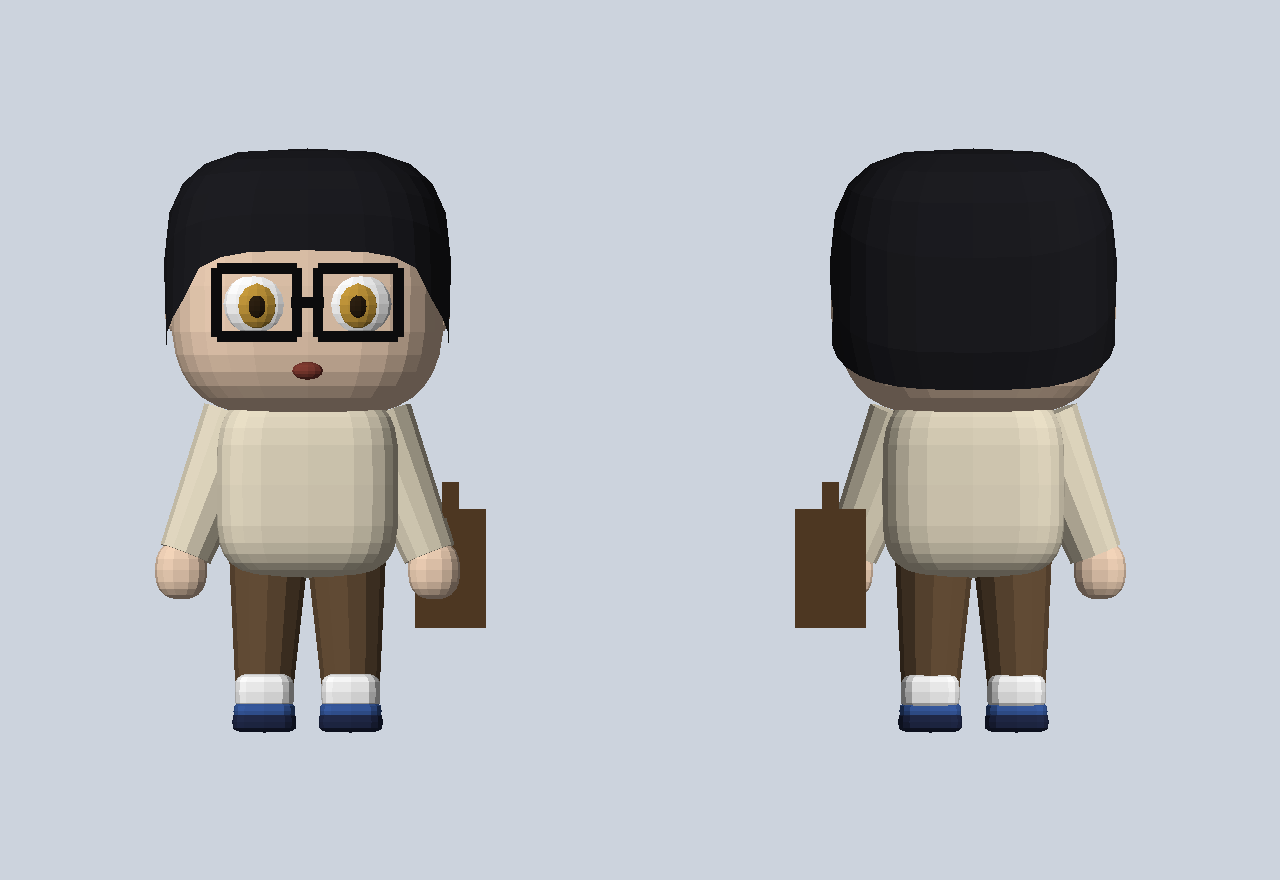
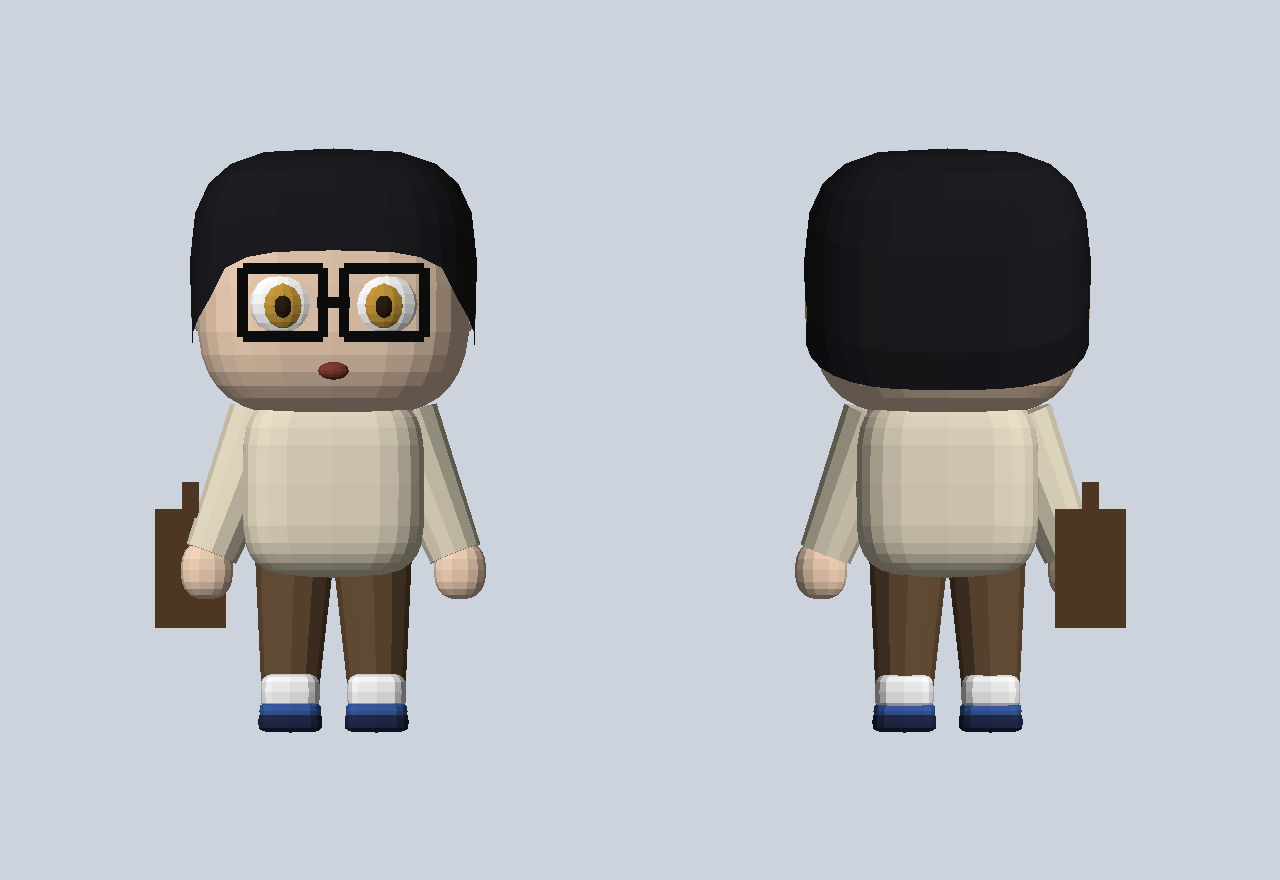
fix(npc): briefcase giao_vien sang -X (tay phai), update verify sample + preview

Changed region(s): [[0.0938, 0.1534, 0.4062, 0.8284], [0.5938, 0.1534, 0.9062, 0.8284]]

diff --git a/chibi-model/generate_npcs.py b/chibi-model/generate_npcs.py
@@ -394,9 +394,9 @@ def build_giao_vien():
         _add(objs, "shoe_sole", "shoe_navy", super_shape((x, -0.025, 0.035), 0.108, 0.148, 0.035, 0.45, 0.45, 16, 10))
         _add(objs, "shoe_midsole", "shoe_blue", super_shape((x, -0.025, 0.072), 0.104, 0.144, 0.030, 0.45, 0.45, 16, 10))
         _add(objs, "shoe_upper", "shoe_white", super_shape((x, -0.015, 0.135), 0.100, 0.140, 0.065, 0.5, 0.5, 16, 10))
-    # briefcase right side
-    _add(objs, "briefcase", "briefcase_brown", box((0.48, 0.10, 0.55), 0.12, 0.10, 0.20), smooth=False)
-    _add(objs, "briefcase_handle", "briefcase_brown", box((0.48, -0.02, 0.78), 0.03, 0.03, 0.06), smooth=False)
+    # briefcase right side (-X is the character's right: faces -Y, right = fwd x up)
+    _add(objs, "briefcase", "briefcase_brown", box((-0.48, 0.10, 0.55), 0.12, 0.10, 0.20), smooth=False)
+    _add(objs, "briefcase_handle", "briefcase_brown", box((-0.48, -0.02, 0.78), 0.03, 0.03, 0.06), smooth=False)
     return objs, mats
 
 def build_hoai_niem():

diff --git a/chibi-model/verify_npcs.py b/chibi-model/verify_npcs.py
@@ -117,7 +117,7 @@ COLOR_CHECKS = [
     ("giao_vien", "shirt cream",   0.000, 0.95, (235, 225, 200), "front"),
     ("giao_vien", "pants brown",   0.150, 0.40, (110, 85, 60),   "front"),
     ("giao_vien", "glasses black", 0.305, 1.445, (14, 14, 16),   "front"),
-    ("giao_vien", "briefcase",     0.480, 0.55, (90, 65, 40),    "back"),
+    ("giao_vien", "briefcase",    -0.480, 0.55, (90, 65, 40),    "back"),
     ("hoai_niem", "jacket arm",    0.330, 0.90, (150, 110, 80),  "front"),
     ("hoai_niem", "pants gray",    0.150, 0.40, (130, 130, 135), "front"),
     ("hoai_niem", "old laptop",    0.000, 0.82, (140, 140, 145), "front"),
